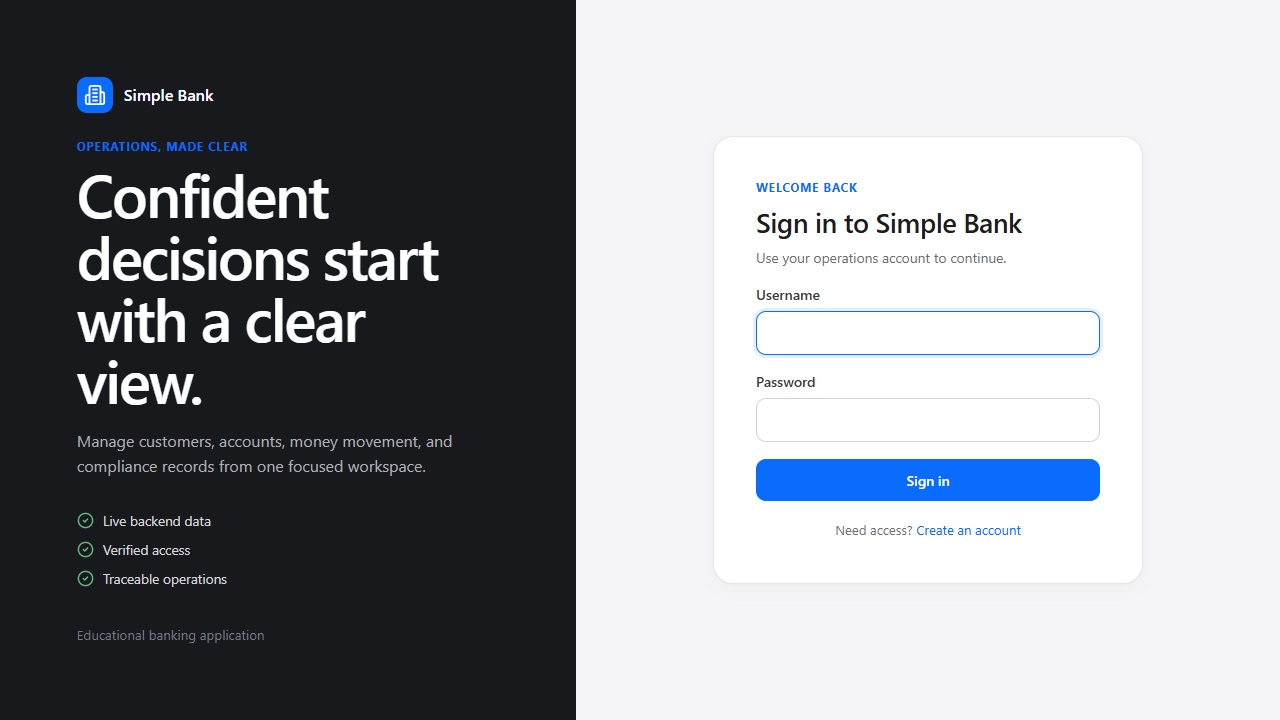
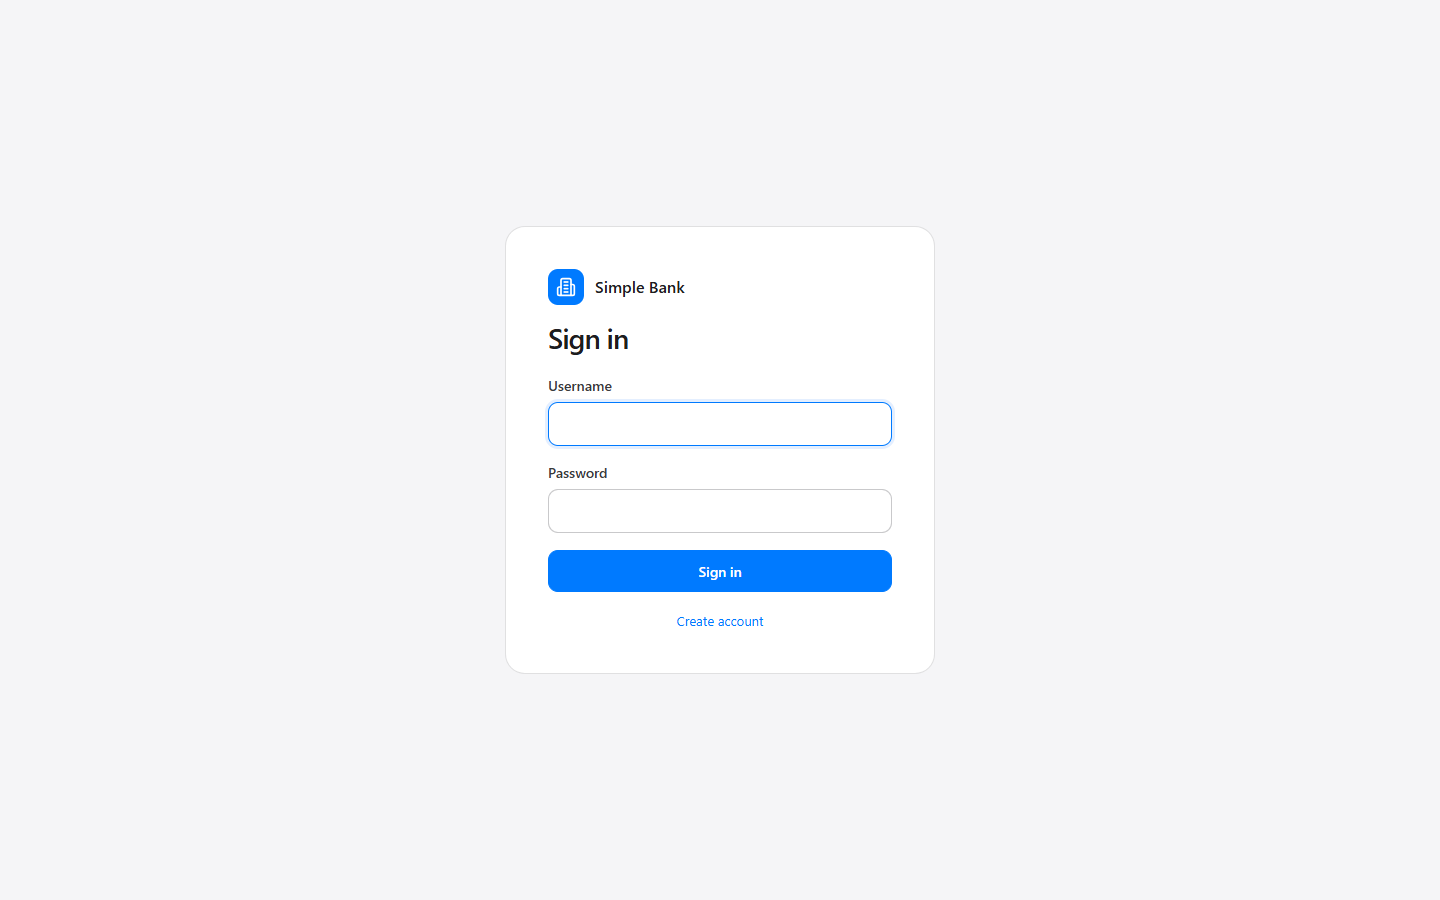
docs: finalize bank authorization and verified UI evidence

diff --git a/README.md b/README.md
@@ -1,19 +1,20 @@
 # Simple Bank Application
 
-Simple Bank is an educational full-stack banking operations application. The current phase combines a React dashboard, a secured Spring Boot API, MongoDB Atlas persistence, JWT authentication, and Docker packaging.
+Simple Bank is an educational full-stack banking application. This phase adds role-based authorization, customer ownership isolation, role-specific React workspaces, a separate security audit, an Apple-like restrained interface, and a Docker full-stack demo.
 
 ## Current Phase
 
-**Full-stack React + Spring Boot + MongoDB Atlas + JWT**
+**Role-based access, customer ownership, and a restrained React UI**
 
-The project evolved in four focused phases:
+The project evolved in five focused phases:
 
 1. Phase 1 — in-memory customers, accounts, balances, and transactions.
 2. Phase 2 — MongoDB Atlas persistence with ObjectId identifiers, Decimal128 money, indexes, and transactional money movement.
-3. Phase 3 — stateless JWT authentication, BCrypt credentials, roles, and authenticated audit actors.
-4. Phase 4 — React operations UI, real API integration, responsive UX, automated frontend tests, and full-stack Docker support.
+3. Phase 3 — stateless JWT authentication, BCrypt credentials, and authenticated audit actors.
+4. Phase 4 — React operations UI, real API integration, and full-stack Docker support.
+5. Phase 5 — CUSTOMER, TELLER, MANAGER, AUDITOR, and ADMIN permissions, customer-owned data, security audit, and role-specific workspaces.
 
-Bank customers and API logins remain intentionally separate. A record in `users` owns bank accounts. A record in `auth_users` proves that a person may access the API. Registration creates an API login; it does not create a bank customer.
+Bank customers and API logins stay separate. A record in `users` owns bank accounts. A record in `auth_users` proves that a person may call the API. Registration creates a Customer login. It does not create a bank customer, and it does not grant staff or admin authority.
 
 ## Architecture
 
@@ -56,22 +57,17 @@ Backend:
 
 ## Frontend Experience
 
-The authenticated operations shell provides:
+Each verified role sees only its own navigation. Inaccessible areas are hidden, and the API still enforces the same limits.
 
-- A dashboard calculated from real customers, accounts, balances, and audits
-- Searchable customer management with update and guarded deletion
-- Customer details with all owned accounts
-- One account-opening workflow for either a new or existing customer
-- Explicit recovery when a customer succeeds but account creation fails
-- Account search, type filters, and a backend-powered premium threshold
-- Account details, account-type updates, and guarded deletion
-- Deposit, withdrawal, transaction history, and account-to-account transfer
-- Compliance audits distinguishing the bank customer from the authenticated actor
-- An ADMIN-only identity verification page, with both frontend and backend enforcement
-- Loading skeletons, empty states, calm errors, accessible notifications, and confirmation dialogs
-- Desktop operations shell, tablet layouts, and a mobile navigation drawer
+- Customer: Overview, My Accounts, Transfer, and Profile, using `/api/me` only
+- Teller: customers, accounts, deposits, and withdrawals
+- Manager: teller work, plus transfers, customer and account changes, and the banking audit
+- Auditor: read-only customers, accounts, histories, and the banking audit
+- Admin: operational banking, Access management, and Security audit
 
-All balances, customers, accounts, transactions, and audits come from the Spring API. Production components contain no demo financial data.
+The visual system uses system typography, a light split-view navigation, a restrained blue accent, low-shadow grouped surfaces, and Radix accessibility primitives. The layout is responsive on desktop and in a mobile navigation sheet. This is Apple-like restraint. It is not affiliated with Apple.
+
+Balances, customers, accounts, transactions, and audits come from the Spring API. Production components contain no demo financial data.
 
 ## Authentication and Authorization
 
@@ -82,11 +78,69 @@ Public routes:
 - `/login`
 - `/register`
 
-The browser stores only the returned token in `sessionStorage`. It never uses `localStorage`, displays the token, or decodes JWT claims as its authorization source. On reload, `GET /api/auth/verify` restores the username and roles from the backend. Any authenticated request that returns `401` clears the token and returns the user to login.
+The browser stores only the returned token in `sessionStorage`. It never uses `localStorage`, displays the token, or decodes JWT claims as its authorization source. On reload, `GET /api/auth/verify` restores the username, primary role, and customer-link state from the backend. Any authenticated request that returns `401` clears the token and returns the user to login.
 
-Public registration always receives `USER`; there is no role selector and no built-in admin password. `/admin` is shown only for a verified `ADMIN` role, and `GET /api/admin/whoami` enforces that role again on the backend.
+Public registration always receives `CUSTOMER`. There is no role selector and no built-in admin password. Permissions are decided in `RolePermissions` and checked through `BankAuthorizationService`. Controllers do not scatter role-string comparisons through the banking services.
 
 Passwords must contain at least 8 characters and no more than 72 UTF-8 bytes. Register and login responses use `Cache-Control: no-store`. `JWT_SECRET` must decode from Base64 to at least 256 bits and has no application default.
+
+## Ownership
+
+```text
+auth_users
+   bankUserId
+      ↓
+users
+      ↓
+accounts
+      ↓
+transactions
+```
+
+A Customer login sees only the bank customer named by `bankUserId`, and only the accounts and transactions that belong to that customer. Matching email addresses are not linked automatically. An administrator must connect the login explicitly. A bank customer can be linked to one Customer login; a second link returns `409`.
+
+A Customer login with `bankUserId = null` can sign in and pass verify, then sees “Bank profile connection pending.” It does not receive customers, accounts, balances, or audits.
+
+## Role matrix
+
+| Area | Customer | Teller | Manager | Auditor | Admin |
+| --- | --- | --- | --- | --- | --- |
+| Own profile and accounts | Yes | — | — | — | — |
+| All customers and accounts | No | Read / create | Read / create / update / delete | Read | Yes |
+| Transaction history | Own | Yes | Yes | Yes | Yes |
+| Deposit and withdraw | No | Yes | Yes | No | Yes |
+| Transfer | Own accounts | No | Yes | No | Yes |
+| Banking audit | No | No | Yes | Yes | Yes |
+| Access management | No | No | No | No | Yes |
+| Security audit | No | No | No | No | Yes |
+
+`USER` remains only for older logins. It is treated as a legacy Customer. An unlinked legacy `USER` gets the same pending-link state. New registrations do not create `USER`.
+
+## 403 and 404
+
+`403` means the role cannot use that feature. Examples: a Customer calls `GET /api/accounts`, an Auditor posts a deposit, or a Teller calls `/api/admin/auth-users`.
+
+`404` means a Customer asked for an object that is not theirs. The response says the resource was not found. It does not say that the object belongs to someone else. Customer reads use `findByIdAndUserId(accountId, bankUserId)` rather than loading an account and then comparing owners.
+
+## Access management
+
+Administrators use Access management to assign one primary role, enable or disable a login, and link or unlink a bank customer. Disabling a login rejects that token on the next request with `401`, because the filter reloads the current identity.
+
+The last enabled administrator cannot be disabled or moved to another role. That attempt returns `409`.
+
+Admin bootstrap is off unless `BOOTSTRAP_ADMIN_ENABLED=true`. When it is on, and no enabled administrator exists, the existing login named by `BOOTSTRAP_ADMIN_USERNAME` is promoted. Bootstrap never creates a password, never logs credentials, and does nothing on later restarts once an enabled administrator exists. Turn `BOOTSTRAP_ADMIN_ENABLED` back to `false` after that promotion.
+
+## Banking audit and security audit
+
+Banking audits stay in the money-movement collection. A deposit, withdrawal, or transfer records the bank customer, the authenticated actor, account ids, transaction ids, amount, and time. Rejected movements do not create an audit.
+
+Security administration is a separate `security_audits` collection: `ROLE_CHANGED`, `AUTH_USER_ENABLED`, `AUTH_USER_DISABLED`, `CUSTOMER_LINKED`, `CUSTOMER_UNLINKED`, and `ADMIN_BOOTSTRAPPED`. Each row stores the actor, target login, previous value, new value, and time. It never stores a password, password hash, or token.
+
+## Production limitations
+
+This remains an educational project. It does not implement KYC, AML, MFA, real banking rails, a PCI environment, regulatory certification, deposit insurance, fraud detection, or maker-checker approval.
+
+A production design could add step-up authentication, fraud and risk checks, transaction limits, beneficiaries, dual approval, KYC/AML, and device or session management. The frontend Nginx image follows the standard image user. That is acceptable for this educational deployment. The backend runtime user is the non-root account `bankapp`.
 
 ## UI Workflows
 
@@ -152,6 +206,8 @@ Copy the variable names from `.env.example` into your shell or a local ignored `
 | `MONGODB_DATABASE` | No | Database name; defaults to `simple_bank` |
 | `JWT_SECRET` | Yes | Base64-encoded HMAC secret of at least 256 bits |
 | `JWT_EXPIRATION_MS` | No | Token lifetime; defaults to `3600000` |
+| `BOOTSTRAP_ADMIN_ENABLED` | No | Defaults to `false`. Enable only for a one-time promotion |
+| `BOOTSTRAP_ADMIN_USERNAME` | No | Existing login to promote when bootstrap is enabled |
 | `FRONTEND_PORT` | No | Docker host port; defaults to `3000` |
 | `BACKEND_PORT` | No | Docker host port; defaults to `8080` |
 
@@ -223,44 +279,33 @@ The automated frontend suite mocks API modules and never connects to Atlas. The 
 
 ## UI Screenshots
 
-These were captured from the React application at `http://localhost:3000` while it was talking to the Dockerized API and Atlas. No tokens or credentials are shown.
+Captured from `http://localhost:3000` against the Dockerized API and Atlas. No tokens or credentials are shown.
 
-| Login | Dashboard | Open account |
+| Login | Admin overview | Customer portal |
 | --- | --- | --- |
-| ![Login](docs/screenshots/01-login.png) | ![Dashboard](docs/screenshots/02-dashboard.png) | ![Open account](docs/screenshots/03-create-account.png) |
+| ![Login](docs/screenshots/01-login.png) | ![Admin overview](docs/screenshots/02-admin-overview.png) | ![Customer portal](docs/screenshots/03-customer-portal.png) |
 
-| Account | Deposit | Withdrawal |
+| Customers | Account | Transfer |
 | --- | --- | --- |
-| ![Account details](docs/screenshots/04-account-details.png) | ![Deposit](docs/screenshots/05-deposit.png) | ![Withdrawal](docs/screenshots/06-withdraw.png) |
+| ![Customers](docs/screenshots/04-customers-table.png) | ![Account](docs/screenshots/05-account-details.png) | ![Transfer](docs/screenshots/06-transfer.png) |
 
-| History | Transfer | Audits | Phone |
+| Audit log | Access management | Security audit | Phone |
 | --- | --- | --- | --- |
-| ![Transaction history](docs/screenshots/07-transaction-history.png) | ![Transfer](docs/screenshots/08-transfer.png) | ![Audits](docs/screenshots/09-audits.png) | ![Mobile dashboard](docs/screenshots/10-mobile-dashboard.png) |
+| ![Audit log](docs/screenshots/07-audit-log.png) | ![Access management](docs/screenshots/08-access-management.png) | ![Security audit](docs/screenshots/09-security-audit.png) | ![Customer on a phone](docs/screenshots/10-mobile-customer.png) |
 
 ## API Summary
 
 | Area | Endpoints |
 | --- | --- |
 | Auth | `POST /api/auth/register`, `POST /api/auth/login`, `GET /api/auth/verify` |
+| Customer portal | `GET /api/me`, `GET /api/me/accounts`, `GET /api/me/accounts/{id}`, `GET /api/me/accounts/{id}/transactions`, `PUT /api/me/profile`, `POST /api/me/transfers` |
 | Customers | `POST/GET /api/users`, `GET/PUT/DELETE /api/users/{id}`, `GET /api/users/{id}/accounts` |
 | Accounts | `POST/GET /api/accounts`, `GET/PUT/DELETE /api/accounts/{id}`, `GET /api/accounts/premium` |
 | Money | `POST /api/accounts/{id}/deposit`, `POST /api/accounts/{id}/withdraw`, `POST /api/accounts/transfer` |
 | History | `GET /api/accounts/{id}/transactions` |
-| Audits | `GET /api/audits`, `GET /api/audits/{id}` |
-| Admin | `GET /api/admin/whoami` |
+| Banking audits | `GET /api/audits`, `GET /api/audits/{id}` |
+| Admin | `GET /api/admin/whoami`, `GET/PUT /api/admin/auth-users`, customer link, `GET /api/admin/security-audits` |
 
 All protected requests use `Authorization: Bearer <token>`. IDs are strings. Amounts must be at least `0.01` with no more than two decimal places. Customer deletion conflicts while accounts exist; account deletion conflicts while transactions exist. Handled failures return a structured `ErrorResponse` without stack traces.
 
-## Screenshot Checklist
-
-For assignment evidence, capture these screens with real Atlas data after completing the live flow:
-
-- Login
-- Dashboard
-- Create Account
-- Account Details with a nonzero balance
-- Deposit
-- Withdraw
-- Transaction History
-
-No screenshots or application claims should imply a production bank, PCI compliance, SOC 2 compliance, or regulatory certification. This remains an educational banking application.
+No screenshot or application claim implies a production bank, PCI compliance, SOC 2 compliance, or regulatory certification.
